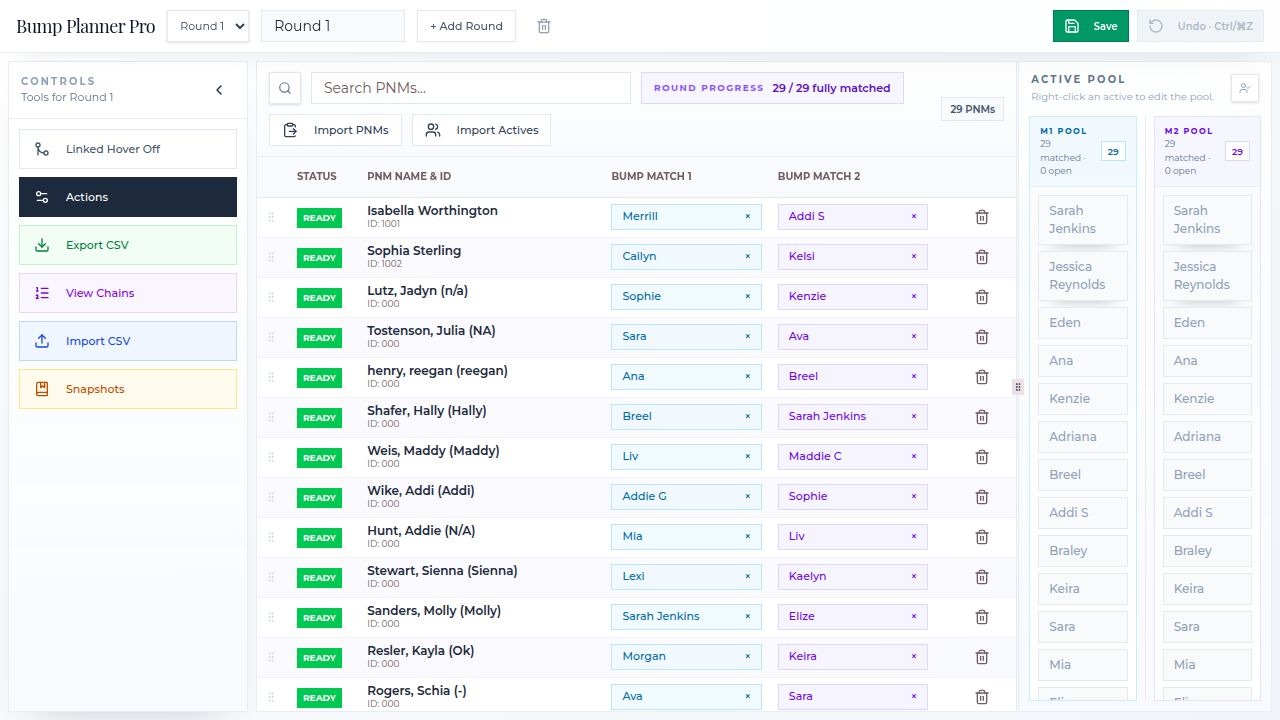
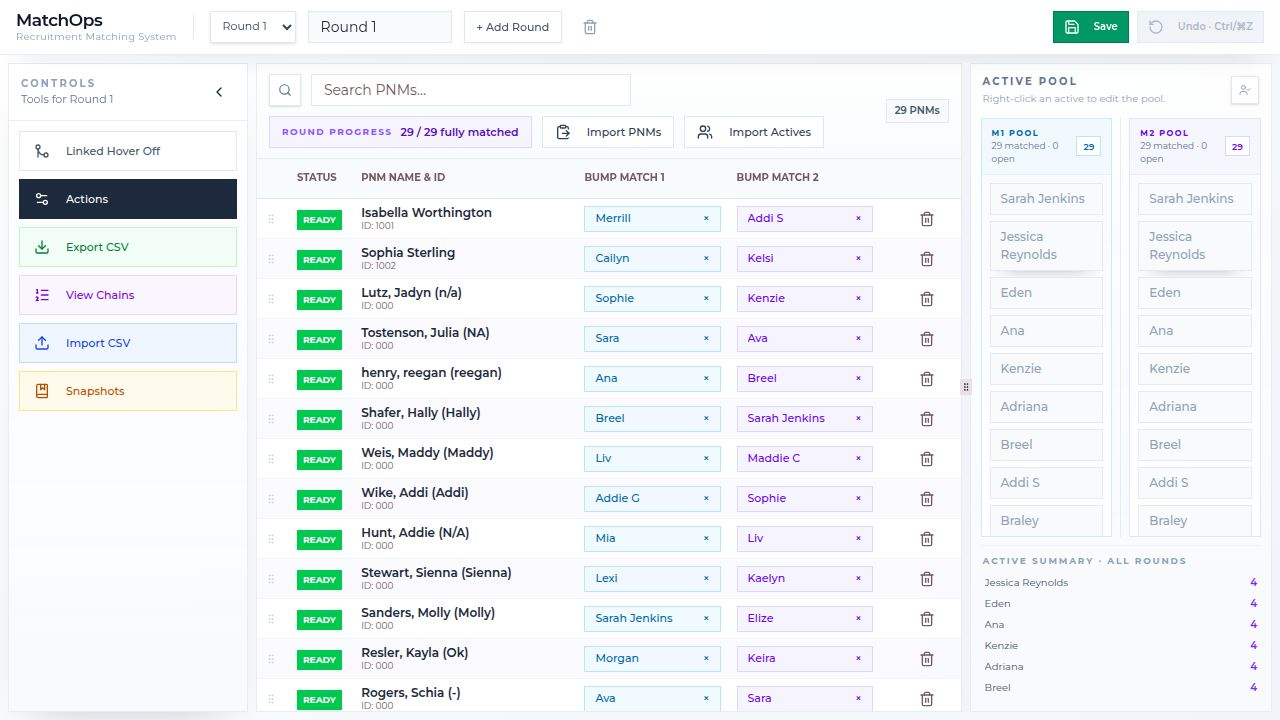
Add a tabbed view to display active participant summaries
Introduce a tabbed interface in the dashboard for toggling between a planner view and a detailed active participant summary, including their conversation partners and rounds.

Replit-Commit-Author: Agent
Replit-Commit-Session-Id: 38a8cf79-ac95-47f4-b238-5ee4f7307693
Replit-Commit-Checkpoint-Type: full_checkpoint
Replit-Commit-Event-Id: 7c64180d-e0cd-49da-9984-8c10ced533f4
Replit-Commit-Screenshot-Url: https://storage.googleapis.com/screenshot-production-us-central1/461f320f-3784-4a51-a7ee-7f857bf5cde1/38a8cf79-ac95-47f4-b238-5ee4f7307693/WM2VV12
Replit-Helium-Checkpoint-Created: true

diff --git a/client/src/pages/dashboard.tsx b/client/src/pages/dashboard.tsx
@@ -28,7 +28,7 @@ import { Dialog, DialogContent, DialogHeader, DialogTitle, DialogTrigger, Dialog
 import { Table, TableBody, TableCell, TableHead, TableHeader, TableRow } from "@/components/ui/table";
 import { ResizableHandle, ResizablePanel, ResizablePanelGroup } from "@/components/ui/resizable";
 import { DropdownMenu, DropdownMenuContent, DropdownMenuItem, DropdownMenuTrigger, DropdownMenuSeparator } from "@/components/ui/dropdown-menu";
-import { Search, ClipboardPaste, UserCheck, Users, Trash2, Download, Upload, GitMerge, ListOrdered, AlertTriangle, Wand2, Settings2, ChevronLeft, ChevronRight, RotateCcw, Save, BookMarked, Clock } from "lucide-react";
+import { Search, ClipboardPaste, UserCheck, Users, Trash2, Download, Upload, GitMerge, ListOrdered, AlertTriangle, Wand2, Settings2, ChevronLeft, ChevronRight, RotateCcw, Save, BookMarked, Clock, BarChart2 } from "lucide-react";
 import { Toaster, toast } from "sonner";
 import Papa from "papaparse";
 import * as XLSX from "xlsx";
@@ -82,6 +82,7 @@ export default function Dashboard() {
   const [isPnmImportOpen, setIsPnmImportOpen] = useState(false);
   const [isActiveImportOpen, setIsActiveImportOpen] = useState(false);
   const [isBumpChainsOpen, setIsBumpChainsOpen] = useState(false);
+  const [activeView, setActiveView] = useState<'planner' | 'summary'>('planner');
   const [isSnapshotsOpen, setIsSnapshotsOpen] = useState(false);
   const [snapshotLabel, setSnapshotLabel] = useState("");
   const [snapshotList, setSnapshotList] = useState<SnapshotMeta[]>([]);
@@ -1163,16 +1164,20 @@ export default function Dashboard() {
   };
 
   const activeSummary = useMemo(() => {
-    const counts: Record<string, number> = {};
-    actives.forEach(a => { counts[a.id] = 0; });
+    const conversations: Record<string, { pnmName: string; roundName: string }[]> = {};
+    actives.forEach(a => { conversations[a.id] = []; });
     rounds.forEach(round => {
       round.pnms.forEach(pnm => {
-        if (pnm.matchedWith && counts[pnm.matchedWith] !== undefined) counts[pnm.matchedWith]++;
-        if (pnm.secondMatch && counts[pnm.secondMatch] !== undefined) counts[pnm.secondMatch]++;
+        if (pnm.matchedWith && conversations[pnm.matchedWith] !== undefined) {
+          conversations[pnm.matchedWith].push({ pnmName: pnm.name, roundName: round.name });
+        }
+        if (pnm.secondMatch && conversations[pnm.secondMatch] !== undefined) {
+          conversations[pnm.secondMatch].push({ pnmName: pnm.name, roundName: round.name });
+        }
       });
     });
     return actives
-      .map(a => ({ id: a.id, name: a.name, count: counts[a.id] || 0 }))
+      .map(a => ({ id: a.id, name: a.name, count: conversations[a.id].length, pnms: conversations[a.id] }))
       .sort((a, b) => b.count - a.count);
   }, [rounds, actives]);
 
@@ -1514,7 +1519,15 @@ export default function Dashboard() {
           <ResizablePanelGroup direction="horizontal" className="flex-1 overflow-hidden">
           <ResizablePanel defaultSize={70} minSize={40}>
             <div className="h-full flex flex-col bg-white/92 border border-slate-200/80 shadow-[0_20px_40px_-30px_rgba(15,23,42,0.28)] overflow-hidden">
-              <div className="px-3 py-2.5 border-b border-slate-200/80 flex items-center justify-between gap-3 bg-[linear-gradient(180deg,rgba(255,255,255,0.92),rgba(248,250,252,0.86))]">
+
+              {/* View tabs */}
+              <div className="flex border-b border-slate-200/80 shrink-0 bg-white/95 px-1">
+                <button onClick={() => setActiveView('planner')} className={`px-4 py-2.5 text-[11px] font-semibold border-b-2 transition-colors ${activeView === 'planner' ? 'border-violet-500 text-violet-700' : 'border-transparent text-slate-500 hover:text-slate-700'}`} data-testid="tab-planner">Planner</button>
+                <button onClick={() => setActiveView('summary')} className={`px-4 py-2.5 text-[11px] font-semibold border-b-2 transition-colors flex items-center gap-1.5 ${activeView === 'summary' ? 'border-violet-500 text-violet-700' : 'border-transparent text-slate-500 hover:text-slate-700'}`} data-testid="tab-active-summary"><BarChart2 className="w-3 h-3" />Active Summary</button>
+              </div>
+
+              {activeView === 'planner' ? (<>
+              <div className="px-3 py-2.5 border-b border-slate-200/80 flex items-center justify-between gap-3 bg-[linear-gradient(180deg,rgba(255,255,255,0.92),rgba(248,250,252,0.86))] shrink-0">
                 <div className="flex items-center gap-2.5 flex-1 flex-wrap">
                   <div className="h-8 w-8 border border-slate-200 bg-white flex items-center justify-center shadow-sm shrink-0">
                     <Search className="h-3.5 w-3.5 text-slate-500" />
@@ -1632,6 +1645,48 @@ export default function Dashboard() {
                   </TableBody>
                 </Table>
               </ScrollArea>
+              </>) : (
+                /* ── Active Summary Tab ── */
+                <ScrollArea className="flex-1">
+                  <Table className="rounded-none">
+                    <TableHeader className="sticky top-0 z-20 bg-slate-50/95 backdrop-blur-md shadow-[inset_0_-1px_0_rgba(226,232,240,0.95)]">
+                      <TableRow className="border-b border-slate-200/90 bg-slate-50/95 hover:bg-slate-50/95">
+                        <TableHead className="py-1 h-8 text-[10px] uppercase font-bold bg-slate-50/95 w-40">Active</TableHead>
+                        <TableHead className="py-1 h-8 text-[10px] uppercase font-bold bg-slate-50/95 w-20">Convos</TableHead>
+                        <TableHead className="py-1 h-8 text-[10px] uppercase font-bold bg-slate-50/95">PNMs Talked To (All Rounds)</TableHead>
+                      </TableRow>
+                    </TableHeader>
+                    <TableBody>
+                      {activeSummary.length === 0 ? (
+                        <TableRow className="hover:bg-transparent">
+                          <TableCell colSpan={3} className="py-10 text-center text-[11px] text-slate-400">No actives imported yet.</TableCell>
+                        </TableRow>
+                      ) : activeSummary.map(a => (
+                        <TableRow key={a.id} className="align-top" data-testid={`row-summary-${a.id}`}>
+                          <TableCell className="py-2.5 text-[12px] font-semibold text-slate-800 whitespace-nowrap">{a.name}</TableCell>
+                          <TableCell className="py-2.5">
+                            <span className={`inline-flex items-center justify-center h-6 min-w-[24px] px-1.5 text-[11px] font-bold rounded-sm ${a.count === 0 ? 'bg-slate-100 text-slate-400' : 'bg-violet-100 text-violet-700'}`} data-testid={`text-summary-count-${a.id}`}>{a.count}</span>
+                          </TableCell>
+                          <TableCell className="py-2.5">
+                            {a.pnms.length === 0 ? (
+                              <span className="text-[11px] text-slate-300">—</span>
+                            ) : (
+                              <div className="flex flex-wrap gap-1">
+                                {a.pnms.map((p, i) => (
+                                  <span key={i} className="inline-flex items-center gap-1 text-[10px] bg-slate-100 px-1.5 py-0.5 text-slate-700" data-testid={`chip-pnm-${a.id}-${i}`}>
+                                    {p.pnmName}
+                                    <span className="text-slate-400 text-[9px]">· {p.roundName}</span>
+                                  </span>
+                                ))}
+                              </div>
+                            )}
+                          </TableCell>
+                        </TableRow>
+                      ))}
+                    </TableBody>
+                  </Table>
+                </ScrollArea>
+              )}
             </div>
           </ResizablePanel>
 
@@ -1721,20 +1776,6 @@ export default function Dashboard() {
                 </div>
               </div>
 
-              {/* Active Summary — all rounds */}
-              <div className="mt-2 shrink-0 border-t border-slate-100 pt-2">
-                <p className="text-[9px] font-bold uppercase tracking-[0.2em] text-slate-400 mb-1.5 px-0.5" data-testid="text-active-summary-title">Active Summary · All Rounds</p>
-                <ScrollArea className="max-h-32">
-                  <div className="space-y-0.5">
-                    {activeSummary.map(a => (
-                      <div key={a.id} className="flex items-center justify-between px-1 py-0.5 rounded-sm hover:bg-slate-50" data-testid={`row-active-summary-${a.id}`}>
-                        <span className="text-[10px] text-slate-600 truncate">{a.name}</span>
-                        <span className={`text-[10px] font-semibold shrink-0 ml-2 ${a.count === 0 ? 'text-slate-300' : 'text-violet-600'}`} data-testid={`text-active-count-${a.id}`}>{a.count}</span>
-                      </div>
-                    ))}
-                  </div>
-                </ScrollArea>
-              </div>
             </div>
           </ResizablePanel>
           </ResizablePanelGroup>
